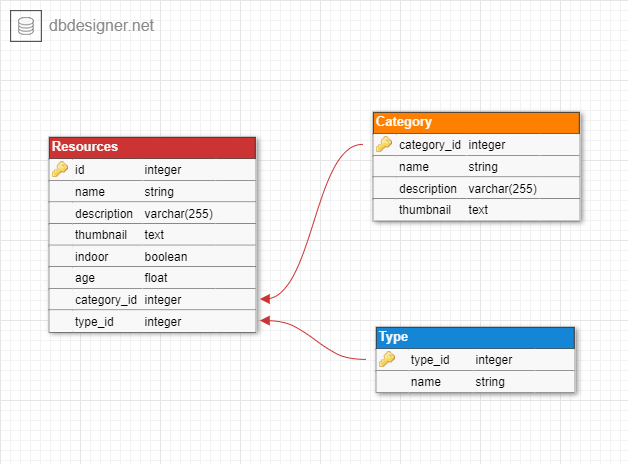
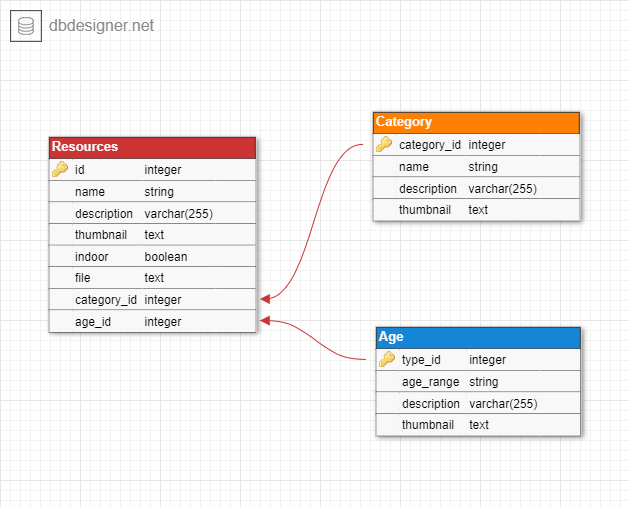
updated readme files

diff --git a/routes/index.js b/routes/index.js
@@ -32,8 +32,8 @@ router.get("/category/:id", function(req, res, next) {
 });
 
 // GET one resource by type
-router.get("/type/:id", function(req, res, next) {
-  db(`SELECT * FROM resources WHERE type_id=${req.params.id};`)
+router.get("/age/:id", function(req, res, next) {
+  db(`SELECT * FROM resources WHERE age_id=${req.params.id};`)
     .then(results => {
       res.send(results.data);
     })
@@ -43,7 +43,7 @@ router.get("/type/:id", function(req, res, next) {
 // INSERT a new resource into the DB
 router.post("/", function(req, res, next) {
   db(
-    `INSERT INTO resources (name, description, thumbnail, indoor, age, category_id, type_id) VALUES ('${req.body.name}', '${req.body.description}', '${req.body.thumbnail}', '${req.body.indoor}', '${req.body.age}', '${req.body.category_id}', '${req.body.type_id}');`
+    `INSERT INTO resources (name, description, thumbnail, indoor, file, category_id, age_id) VALUES ('${req.body.name}', '${req.body.description}', '${req.body.thumbnail}', '${req.body.indoor}', '${req.body.file}', '${req.body.category_id}', '${req.body.age_id}');`
   )
   .then(results => {
     res.send(results.data);
